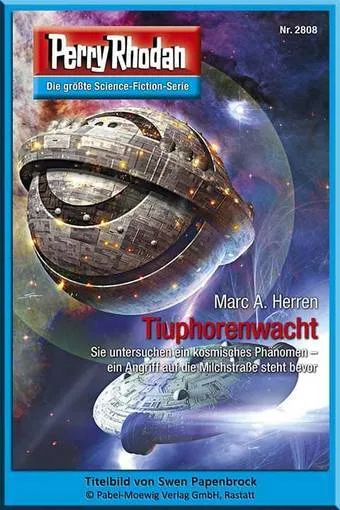
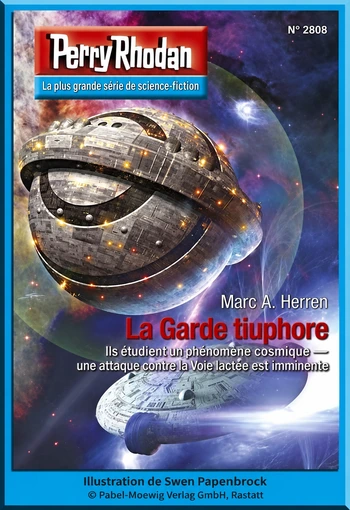
fix: translate covers 2803-2812

diff --git a/src/content/chapitres/de-2803.md b/src/content/chapitres/de-2803.md
@@ -4,7 +4,7 @@ cycleNumber: 39
 chapterNumber: 2803
 type: translation
 originalTitle: "Unter dem Sextadim-Banner"
-cover: "/images/covers/de-2803.webp"
+cover: "/images/covers/de-2803.webp?v=20261117-fr"
 auteur: "Marc A. Herren"
 parution: "2015-05-08"
 statut: traduit

diff --git a/src/content/chapitres/de-2804.md b/src/content/chapitres/de-2804.md
@@ -4,7 +4,7 @@ cycleNumber: 39
 chapterNumber: 2804
 type: translation
 originalTitle: "Hüter der Zeiten"
-cover: "/images/covers/de-2804.webp"
+cover: "/images/covers/de-2804.webp?v=20261117-fr"
 auteur: "Michael Marcus Thurner"
 parution: "2015-05-15"
 statut: traduit

diff --git a/src/content/chapitres/de-2812.md b/src/content/chapitres/de-2812.md
@@ -4,7 +4,7 @@ cycleNumber: 39
 chapterNumber: 2812
 type: translation
 originalTitle: "Willkommen im Tamanium!"
-cover: "/images/covers/de-2812.webp"
+cover: "/images/covers/de-2812.webp?v=20261117-fr"
 auteur: "Andreas Eschbach"
 parution: "2015-07-10"
 statut: traduit

diff --git a/src/content/chapitres/de-2805.md b/src/content/chapitres/de-2805.md
@@ -4,7 +4,7 @@ cycleNumber: 39
 chapterNumber: 2805
 type: translation
 originalTitle: "Para-Patrouille"
-cover: "/images/covers/de-2805.webp"
+cover: "/images/covers/de-2805.webp?v=20261117-fr"
 auteur: "Michael Marcus Thurner"
 parution: "2015-05-22"
 statut: traduit

diff --git a/src/content/chapitres/de-2807.md b/src/content/chapitres/de-2807.md
@@ -4,7 +4,7 @@ cycleNumber: 39
 chapterNumber: 2807
 type: translation
 originalTitle: "Sternspringer über Swoofon"
-cover: "/images/covers/de-2807.webp"
+cover: "/images/covers/de-2807.webp?v=20261117-fr"
 auteur: "Leo Lukas"
 parution: "2015-06-05"
 statut: traduit

diff --git a/src/content/chapitres/de-2806.md b/src/content/chapitres/de-2806.md
@@ -4,7 +4,7 @@ cycleNumber: 39
 chapterNumber: 2806
 type: translation
 originalTitle: "Aus dem Zeitriss"
-cover: "/images/covers/de-2806.webp"
+cover: "/images/covers/de-2806.webp?v=20261117-fr"
 auteur: "Christian Montillon"
 parution: "2015-05-29"
 statut: traduit

diff --git a/src/content/chapitres/de-2810.md b/src/content/chapitres/de-2810.md
@@ -4,7 +4,7 @@ cycleNumber: 39
 chapterNumber: 2810
 type: translation
 originalTitle: "Brückenkopf Laudhgast"
-cover: "/images/covers/de-2810.webp"
+cover: "/images/covers/de-2810.webp?v=20261117-fr"
 auteur: "Uwe Anton"
 parution: "2015-06-26"
 statut: traduit

diff --git a/src/content/chapitres/de-2808.md b/src/content/chapitres/de-2808.md
@@ -4,7 +4,7 @@ cycleNumber: 39
 chapterNumber: 2808
 type: translation
 originalTitle: "Tiuphorenwacht"
-cover: "/images/covers/de-2808.webp"
+cover: "/images/covers/de-2808.webp?v=20261117-fr"
 auteur: "Marc A. Herren"
 parution: "2015-06-12"
 statut: traduit

diff --git a/src/content/chapitres/de-2811.md b/src/content/chapitres/de-2811.md
@@ -4,7 +4,7 @@ cycleNumber: 39
 chapterNumber: 2811
 type: translation
 originalTitle: "Bote der Atopen"
-cover: "/images/covers/de-2811.webp"
+cover: "/images/covers/de-2811.webp?v=20261117-fr"
 auteur: "Wim Vandemaan"
 parution: "2015-07-03"
 statut: traduit

diff --git a/src/content/chapitres/de-2809.md b/src/content/chapitres/de-2809.md
@@ -4,7 +4,7 @@ cycleNumber: 39
 chapterNumber: 2809
 type: translation
 originalTitle: "Heimsuchung"
-cover: "/images/covers/de-2809.webp"
+cover: "/images/covers/de-2809.webp?v=20261117-fr"
 auteur: "Oliver Fröhlich"
 parution: "2015-06-19"
 statut: traduit
